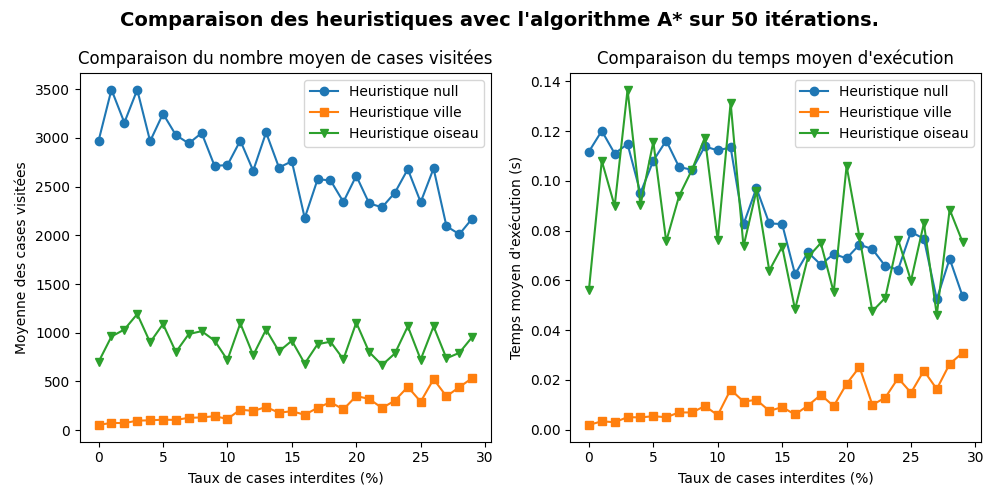
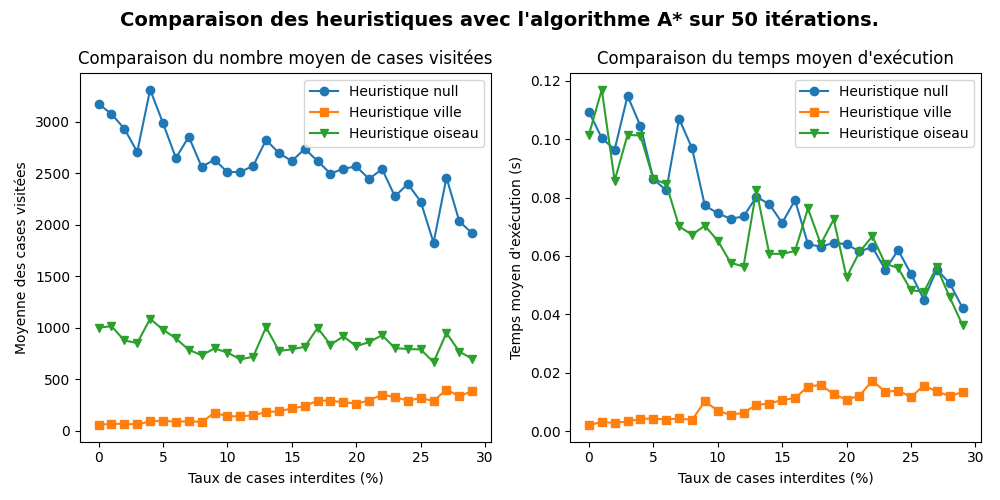
commentaire

diff --git a/comparaison.py b/comparaison.py
@@ -29,7 +29,7 @@ class ComparaisonAStarDijkstra:
 
             # Nombre d'itérations par défaut
             for _ in range(self.iteration):
-                plateau = Plateau(self.largeur, self.longueur, taux / 100, True)
+                plateau = Plateau(self.largeur, self.longueur, taux / 100, False)
 
                 # Exécution de A* avec heuristique null (Dijkstra)
                 algo_heuristique_null = A_star(plateau, heuristique="N")
